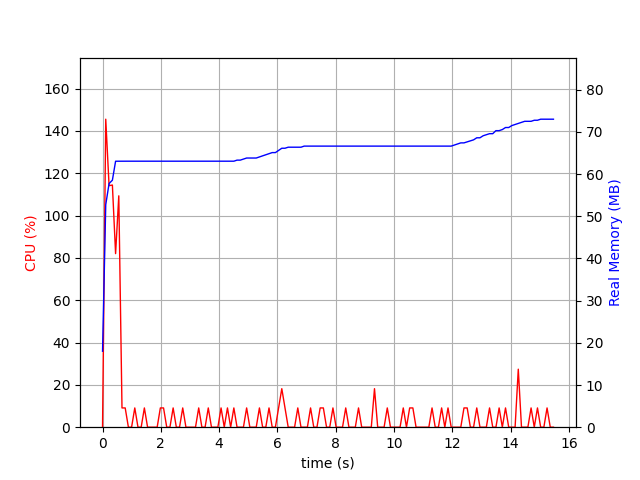
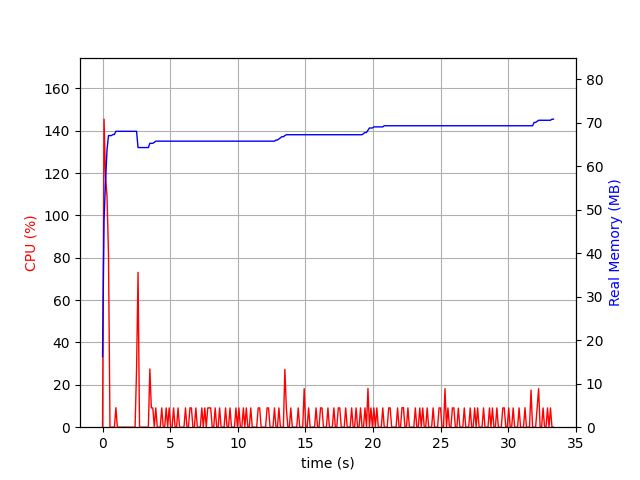
update readme

diff --git a/readme.md b/readme.md
@@ -95,7 +95,7 @@ optional arguments:
 
 ## Constant Request Rate Benchmarks
 
-For REQRATE = 100 request/s constant rate test with [`psrecord`](https://github.com/astrofrog/psrecord/)
+For REQRATE = 100 request/s constant rate test with [`psrecord`](https://github.com/astrofrog/psrecord/).   Where `--duration $((TIME+30))` is the `TIME` + 30s defined in `benchmark-rps.js`
 
 ```
 VU=20
@@ -103,7 +103,13 @@ REQRATE=100
 TIME=30
 DOMAIN=https://yourdomain.com/
 
-psrecord "taskset -c 0-3 k6 run -e RPS=${REQRATE} -e DURATION=${TIME}s -e USERS=${VU} -e URL=$DOMAIN --no-usage-report --out json=summary-raw-rps.gz benchmark-rps.js" --include-children --interval 0.1 --duration 30 --log psrecord.log --plot plot.png
+# gather nginx resource usage via psrecord in background
+# get Nginx MainPID value using Centmin Mod cminfo server-info tool
+spid=$(cminfo service-info nginx | jq -r '.MainPID')
+# set duration to 180 seconds as benchmark.js uses 4x 30s stages + 30s = 2 1/2 min run time
+psrecord $spid --include-children --interval 0.1 --duration $((TIME+30)) --log psrecord-rps-nginx.log --plot plot-rps-nginx.png &
+
+psrecord "taskset -c 0-3 k6 run -e RPS=${REQRATE} -e DURATION=${TIME}s -e USERS=${VU} -e URL=$DOMAIN --no-usage-report --out json=summary-raw-rps.gz benchmark-rps.js" --include-children --interval 0.1 --duration $((TIME+30)) --log psrecord.log --plot plot.png
 ```
 ```
 VU=20
@@ -111,9 +117,15 @@ REQRATE=100
 TIME=30
 DOMAIN=https://yourdomain.com/
 
-psrecord "taskset -c 0-3 k6 run -e RPS=${REQRATE} -e DURATION=${TIME}s -e USERS=${VU} -e URL=$DOMAIN --no-usage-report --out json=summary-raw-rps.gz benchmark-rps.js" --include-children --interval 0.1 --duration 30 --log psrecord.log --plot plot.png
+# gather nginx resource usage via psrecord in background
+# get Nginx MainPID value using Centmin Mod cminfo server-info tool
+spid=$(cminfo service-info nginx | jq -r '.MainPID')
+# set duration to 180 seconds as benchmark.js uses 4x 30s stages + 30s = 2 1/2 min run time
+psrecord $spid --include-children --interval 0.1 --duration $((TIME+30)) --log psrecord-rps-nginx.log --plot plot-rps-nginx.png &
 
-Starting up command 'taskset -c 0-3 k6 run -e RPS=100 -e DURATION=15s -e USERS=20 -e URL=https://domain1.com/ --no-usage-report --out json=summary-raw-rps.gz benchmark-rps.js' and attaching to process
+psrecord "taskset -c 0-3 k6 run -e RPS=${REQRATE} -e DURATION=${TIME}s -e USERS=${VU} -e URL=$DOMAIN --no-usage-report --out json=summary-raw-rps.gz benchmark-rps.js" --include-children --interval 0.1 --duration $((TIME+30)) --log psrecord.log --plot plot.png
+
+Starting up command 'taskset -c 0-3 k6 run -e RPS=100 -e DURATION=30s -e USERS=20 -e URL=https://domain1.com/ --no-usage-report --out json=summary-raw-rps.gz benchmark-rps.js' and attaching to process
 
           /\      |‾‾| /‾‾/   /‾‾/   
      /\  /  \     |  |/  /   /  /    
@@ -125,65 +137,76 @@ Starting up command 'taskset -c 0-3 k6 run -e RPS=100 -e DURATION=15s -e USERS=2
      script: benchmark-rps.js
      output: json (summary-raw-rps.gz)
 
-  scenarios: (100.00%) 1 scenario, 1000 max VUs, 45s max duration (incl. graceful stop):
-           * open_model: 100.00 iterations/s for 15s (maxVUs: 20-1000, gracefulStop: 30s)
+  scenarios: (100.00%) 1 scenario, 1000 max VUs, 1m0s max duration (incl. graceful stop):
+           * open_model: 100.00 iterations/s for 30s (maxVUs: 20-1000, gracefulStop: 30s)
 
 
-running (15.0s), 0000/0020 VUs, 1501 complete and 0 interrupted iterations
-open_model ✓ [======================================] 0000/0020 VUs  15s  100.00 iters/s
+running (0m30.0s), 0000/0020 VUs, 3000 complete and 0 interrupted iterations
+open_model ✓ [======================================] 0000/0020 VUs  30s  100.00 iters/s
      █ main index page
 
        ✓ is status 200
 
-     checks.........................: 100.00% ✓ 1501       ✗ 0   
-     data_received..................: 3.6 MB  239 kB/s
-     data_sent......................: 73 kB   4.8 kB/s
-     group_duration.................: avg=278.22µs min=225.94µs med=260.97µs max=4.7ms    p(95)=304.74µs p(99)=963.37µs p(99.99)=4.21ms   count=1501
-     http_req_blocked...............: avg=9.72µs   min=160ns    med=262ns    max=922.33µs p(95)=361ns    p(99)=649.83µs p(99.99)=919.25µs count=1501
-     http_req_connecting............: avg=700ns    min=0s       med=0s       max=99.76µs  p(95)=0s       p(99)=44.79µs  p(99.99)=96.78µs  count=1501
-     http_req_duration..............: avg=213.93µs min=181.89µs med=209.62µs max=588.97µs p(95)=238.92µs p(99)=327.53µs p(99.99)=586.16µs count=1501
-       { expected_response:true }...: avg=213.93µs min=181.89µs med=209.62µs max=588.97µs p(95)=238.92µs p(99)=327.53µs p(99.99)=586.16µs count=1501
-     ✓ { gzip:yes }.................: avg=213.93µs min=181.89µs med=209.62µs max=588.97µs p(95)=238.92µs p(99)=327.53µs p(99.99)=586.16µs count=1501
-     http_req_failed................: 0.00%   ✓ 0          ✗ 1501
-     http_req_receiving.............: avg=21.72µs  min=14.74µs  med=19.78µs  max=194.79µs p(95)=27.82µs  p(99)=93.34µs  p(99.99)=193.84µs count=1501
-     http_req_sending...............: avg=57.33µs  min=25.28µs  med=31.96µs  max=312.68µs p(95)=202.96µs p(99)=211.36µs p(99.99)=309.35µs count=1501
-     http_req_tls_handshaking.......: avg=7.8µs    min=0s       med=0s       max=744.19µs p(95)=0s       p(99)=547.02µs p(99.99)=740.18µs count=1501
-     http_req_waiting...............: avg=134.87µs min=0s       med=152.74µs max=520.46µs p(95)=174.36µs p(99)=230.68µs p(99.99)=510.61µs count=1501
-     http_reqs......................: 1501    100.053087/s
-     iteration_duration.............: avg=291.89µs min=236.67µs med=273.92µs max=4.72ms   p(95)=319.85µs p(99)=983.59µs p(99.99)=4.24ms   count=1501
-     iterations.....................: 1501    100.053087/s
-     vus............................: 20      min=20       max=20
-     vus_max........................: 20      min=20       max=20Process finished (15.58 seconds)
+     checks.........................: 100.00% ✓ 3000      ✗ 0   
+     data_received..................: 7.1 MB  238 kB/s
+     data_sent......................: 131 kB  4.4 kB/s
+     group_duration.................: avg=288.4µs  min=232.7µs  med=271.13µs max=6.36ms   p(95)=330.81µs p(99)=437.09µs p(99.99)=5.79ms   count=3000
+     http_req_blocked...............: avg=5.98µs   min=154ns    med=259ns    max=3.93ms   p(95)=360ns    p(99)=799ns    p(99.99)=3.04ms   count=3000
+     http_req_connecting............: avg=1.05µs   min=0s       med=0s       max=2.15ms   p(95)=0s       p(99)=0s       p(99.99)=1.53ms   count=3000
+     http_req_duration..............: avg=228.72µs min=186.45µs med=219.13µs max=6.29ms   p(95)=258.79µs p(99)=305.58µs p(99.99)=5.67ms   count=3000
+       { expected_response:true }...: avg=228.72µs min=186.45µs med=219.13µs max=6.29ms   p(95)=258.79µs p(99)=305.58µs p(99.99)=5.67ms   count=3000
+     ✓ { gzip:yes }.................: avg=228.72µs min=186.45µs med=219.13µs max=6.29ms   p(95)=258.79µs p(99)=305.58µs p(99.99)=5.67ms   count=3000
+     http_req_failed................: 0.00%   ✓ 0         ✗ 3000
+     http_req_receiving.............: avg=21.41µs  min=14.37µs  med=20.19µs  max=136.93µs p(95)=27.72µs  p(99)=36.52µs  p(99.99)=130.43µs count=3000
+     http_req_sending...............: avg=60.9µs   min=25.83µs  med=33.25µs  max=317.2µs  p(95)=208.82µs p(99)=226.07µs p(99.99)=311.65µs count=3000
+     http_req_tls_handshaking.......: avg=4.19µs   min=0s       med=0s       max=1.63ms   p(95)=0s       p(99)=0s       p(99.99)=1.37ms   count=3000
+     http_req_waiting...............: avg=146.39µs min=0s       med=162.22µs max=6.22ms   p(95)=184.61µs p(99)=229.52µs p(99.99)=5.59ms   count=3000
+     http_reqs......................: 3000    99.994163/s
+     iteration_duration.............: avg=302.56µs min=245.1µs  med=284.47µs max=6.38ms   p(95)=348.05µs p(99)=462.9µs  p(99.99)=5.82ms   count=3000
+     iterations.....................: 3000    99.994163/s
+     vus............................: 20      min=20      max=20
+     vus_max........................: 20      min=20      max=20Process finished (33.45 seconds)
 ```
 
 psrecord recorded cpu and memory usage on 4x core/8x thread Intel i7 4790K server.
 
+For k6 run itself
+
 ![benchmark-rps.js](/screenshots/rps/plot.png)
+
+For Nginx web server tested
+
+![nginx](/screenshots/rps/plot-rps-nginx.png)
 
 ## User Concurrency Benchmarks Without Random Sleep
 
-User 25, 50, 100, 0 concurrency 4 stage benchmarks without random sleep with [`psrecord`](https://github.com/astrofrog/psrecord/)
+User 25, 50, 100, 0 concurrency 4 stage benchmarks without random sleep with [`psrecord`](https://github.com/astrofrog/psrecord/). Where `--duration $((TIME*5+30))` is the time multiple by the 4+1 stage runs + 30s defined in `benchmark.js`
 
 ```
 TIME=30
 DOMAIN=https://yourdomain.com/
 
-# method 1 run psrecord in background
+# gather nginx resource usage via psrecord in background
 # get Nginx MainPID value using Centmin Mod cminfo server-info tool
 spid=$(cminfo service-info nginx | jq -r '.MainPID')
 # set duration to 180 seconds as benchmark.js uses 4x 30s stages + 30s = 2 1/2 min run time
-psrecord $spid --include-children --interval 0.1 --duration 180 --log psrecord-user-no-sleep.log --plot plot-user-no-sleep.png &
-taskset -c 0-3 k6 run -e STAGETIME=${TIME}s -e URL=$DOMAIN --no-usage-report --out json=summary-raw.gz benchmark.js
+psrecord $spid --include-children --interval 0.1 --duration $((TIME*5+30)) --log psrecord-user-no-sleep-nginx.log --plot plot-user-no-sleep-nginx.png &
 
-# method 2 initiated via psrecord
-psrecord "taskset -c 0-3 k6 run -e STAGETIME=${TIME}s -e URL=$DOMAIN --no-usage-report --out json=summary-raw.gz benchmark.js" --include-children --interval 0.1 --duration 180 --log psrecord-user-no-sleep.log --plot plot-user-no-sleep.png
+# run k6 initiated via psrecord
+psrecord "taskset -c 0-3 k6 run -e STAGETIME=${TIME}s -e URL=$DOMAIN --no-usage-report --out json=summary-raw.gz benchmark.js" --include-children --interval 0.1 --duration $((TIME*5+30)) --log psrecord-user-no-sleep.log --plot plot-user-no-sleep.png
 ```
 
 ```
 TIME=30
 DOMAIN=https://yourdomain.com/
 
-psrecord "taskset -c 0-3 k6 run -e STAGETIME=${TIME}s -e URL=$DOMAIN --no-usage-report --out json=summary-raw.gz benchmark.js" --include-children --interval 0.1 --duration 180 --log psrecord-user-no-sleep.log --plot plot-user-no-sleep.png
+# gather nginx resource usage via psrecord in background
+# get Nginx MainPID value using Centmin Mod cminfo server-info tool
+spid=$(cminfo service-info nginx | jq -r '.MainPID')
+# set duration to 180 seconds as benchmark.js uses 4x 30s stages + 30s = 2 1/2 min run time
+psrecord $spid --include-children --interval 0.1 --duration $((TIME*5+30)) --log psrecord-user-no-sleep-nginx.log --plot plot-user-no-sleep-nginx.png &
+
+psrecord "taskset -c 0-3 k6 run -e STAGETIME=${TIME}s -e URL=$DOMAIN --no-usage-report --out json=summary-raw.gz benchmark.js" --include-children --interval 0.1 --duration $((TIME*5+30)) --log psrecord-user-no-sleep.log --plot plot-user-no-sleep.png
 
 Starting up command 'taskset -c 0-3 k6 run -e STAGETIME=30s -e URL=https://domain1.com/ --no-usage-report --out json=summary-raw.gz benchmark.js' and attaching to process
 
@@ -197,35 +220,35 @@ Starting up command 'taskset -c 0-3 k6 run -e STAGETIME=30s -e URL=https://domai
      script: benchmark.js
      output: json (summary-raw.gz)
 
-  scenarios: (100.00%) 1 scenario, 100 max VUs, 2m30s max duration (incl. graceful stop):
-           * default: Up to 100 looping VUs for 2m0s over 4 stages (gracefulRampDown: 30s, gracefulStop: 30s)
+  scenarios: (100.00%) 1 scenario, 10 max VUs, 2m30s max duration (incl. graceful stop):
+           * default: Up to 10 looping VUs for 2m0s over 4 stages (gracefulRampDown: 30s, gracefulStop: 30s)
 
 
-running (2m00.0s), 000/100 VUs, 515498 complete and 0 interrupted iterations
-default ✓ [======================================] 000/100 VUs  2m0s
+running (2m00.0s), 00/10 VUs, 372061 complete and 0 interrupted iterations
+default ✓ [======================================] 00/10 VUs  2m0s
      █ main index page
 
        ✓ is status 200
 
-     checks.........................: 100.00% ✓ 515498      ✗ 0     
-     data_received..................: 1.2 GB  10 MB/s
-     data_sent......................: 20 MB   168 kB/s
-     group_duration.................: avg=9.28ms   min=206.71µs med=6.03ms  max=118.51ms p(95)=29.06ms  p(99)=45.52ms p(99.99)=89.95ms count=515498
-     http_req_blocked...............: avg=3.61µs   min=107ns    med=221ns   max=65.82ms  p(95)=326ns    p(99)=427ns   p(99.99)=13.44ms count=515498
-     http_req_connecting............: avg=1.59µs   min=0s       med=0s      max=38.03ms  p(95)=0s       p(99)=0s      p(99.99)=3.46ms  count=515498
-     http_req_duration..............: avg=9.15ms   min=162.86µs med=5.94ms  max=118.46ms p(95)=28.73ms  p(99)=44.83ms p(99.99)=88.63ms count=515498
-       { expected_response:true }...: avg=9.15ms   min=162.86µs med=5.94ms  max=118.46ms p(95)=28.73ms  p(99)=44.83ms p(99.99)=88.63ms count=515498
-     ✓ { gzip:yes }.................: avg=9.15ms   min=162.86µs med=5.94ms  max=118.46ms p(95)=28.73ms  p(99)=44.83ms p(99.99)=88.63ms count=515498
-     http_req_failed................: 0.00%   ✓ 0           ✗ 515498
-     http_req_receiving.............: avg=3.77ms   min=9µs      med=1.73ms  max=107.19ms p(95)=14.31ms  p(99)=31.21ms p(99.99)=67.59ms count=515498
-     http_req_sending...............: avg=126.79µs min=13.99µs  med=29.29µs max=73.17ms  p(95)=185.48µs p(99)=1.7ms   p(99.99)=39.06ms count=515498
-     http_req_tls_handshaking.......: avg=1.66µs   min=0s       med=0s      max=52.81ms  p(95)=0s       p(99)=0s      p(99.99)=4.81ms  count=515498
-     http_req_waiting...............: avg=5.25ms   min=0s       med=2.39ms  max=91.08ms  p(95)=19.37ms  p(99)=26.88ms p(99.99)=51.61ms count=515498
-     http_reqs......................: 515498  4295.760443/s
-     iteration_duration.............: avg=10.14ms  min=618.59µs med=6.8ms   max=119.03ms p(95)=30.72ms  p(99)=48.28ms p(99.99)=91.41ms count=515498
-     iterations.....................: 515498  4295.760443/s
-     vus............................: 1       min=1         max=99  
-     vus_max........................: 100     min=100       max=100 Process finished (121.29 seconds)
+     checks.........................: 100.00% ✓ 372061      ✗ 0     
+     data_received..................: 881 MB  7.3 MB/s
+     data_sent......................: 15 MB   121 kB/s
+     group_duration.................: avg=716.71µs min=202.28µs med=366.9µs  max=27.68ms  p(95)=1.98ms   p(99)=7.51ms   p(99.99)=18.26ms count=372061
+     http_req_blocked...............: avg=295ns    min=109ns    med=218ns    max=3.58ms   p(95)=296ns    p(99)=338ns    p(99.99)=9.46µs  count=372061
+     http_req_connecting............: avg=5ns      min=0s       med=0s       max=871.71µs p(95)=0s       p(99)=0s       p(99.99)=0s      count=372061
+     http_req_duration..............: avg=660.38µs min=159.34µs med=309.89µs max=36.12ms  p(95)=1.9ms    p(99)=7.39ms   p(99.99)=21.27ms count=372061
+       { expected_response:true }...: avg=660.38µs min=159.34µs med=309.89µs max=36.12ms  p(95)=1.9ms    p(99)=7.39ms   p(99.99)=21.27ms count=372061
+     ✓ { gzip:yes }.................: avg=660.38µs min=159.34µs med=309.89µs max=36.12ms  p(95)=1.9ms    p(99)=7.39ms   p(99.99)=21.27ms count=372061
+     http_req_failed................: 0.00%   ✓ 0           ✗ 372061
+     http_req_receiving.............: avg=129.3µs  min=8.84µs   med=19.65µs  max=25.19ms  p(95)=699.68µs p(99)=1.29ms   p(99.99)=12.77ms count=372061
+     http_req_sending...............: avg=49.92µs  min=16.27µs  med=28.76µs  max=22.97ms  p(95)=182.66µs p(99)=248.71µs p(99.99)=11.58ms count=372061
+     http_req_tls_handshaking.......: avg=45ns     min=0s       med=0s       max=3.41ms   p(95)=0s       p(99)=0s       p(99.99)=0s      count=372061
+     http_req_waiting...............: avg=481.15µs min=0s       med=241.92µs max=27.27ms  p(95)=1.09ms   p(99)=6.73ms   p(99.99)=15.53ms count=372061
+     http_reqs......................: 372061  3100.424592/s
+     iteration_duration.............: avg=1.28ms   min=614.18µs med=901.1µs  max=33.76ms  p(95)=2.83ms   p(99)=8.93ms   p(99.99)=22.37ms count=372061
+     iterations.....................: 372061  3100.424592/s
+     vus............................: 1       min=1         max=10  
+     vus_max........................: 10      min=10        max=10  Process finished (121.11 seconds)
 ```
 
 Using `jq` to filter `summary-raw.gz` summary log for the 4 stages via the tags for each stage.
@@ -269,11 +292,17 @@ pzcat summary-raw.gz | jq '. | select(.type=="Point" and .metric == "http_req_du
 
 psrecord recorded cpu and memory usage on 4x core/8x thread Intel i7 4790K server.
 
+For k6 run itself
+
 ![benchmark.js](/screenshots/users/plot-user-no-sleep.png)
+
+For Nginx web server tested
+
+![nginx](/screenshots/users/plot-user-no-sleep-nginx.png)
 
 ## User Concurrency Benchmarks With Random Sleep
 
-User 25, 50, 100, 0 concurrency 4 stage benchmarks with random sleep between 1 to 5 seconds with [`psrecord`](https://github.com/astrofrog/psrecord/) in `benchmark2.js` for `export default function ()`
+User 25, 50, 100, 0 concurrency 4 stage benchmarks with random sleep between 1 to 5 seconds with [`psrecord`](https://github.com/astrofrog/psrecord/) in `benchmark2.js` for `export default function ()`.  Where `--duration $((TIME*5+30))` is the time multiple by the 4+1 stage runs + 30s defined in `benchmark2.js`
 
 ```javascript
   const sleepMin = 1;
@@ -290,23 +319,22 @@ sleep(randomIntBetween(sleepMin, sleepMax));
 TIME=30
 DOMAIN=https://yourdomain.com/
 
-# method 1 run psrecord in background
+# gather nginx resource usage via psrecord in background
 # get Nginx MainPID value using Centmin Mod cminfo server-info tool
 spid=$(cminfo service-info nginx | jq -r '.MainPID')
 # set duration to 180 seconds as benchmark2.js uses 4x 30s stages + 30s = 2 1/2 min run time
-psrecord $spid --include-children --interval 0.1 --duration 180 --log psrecord-user.log --plot plot-user.png &
-taskset -c 0-3 k6 run -e STAGETIME=${TIME}s -e URL=$DOMAIN --no-usage-report --out json=summary-raw2.gz benchmark2.js
+psrecord $spid --include-children --interval 0.1 --duration $((TIME*5+30)) --log psrecord-user-nginx.log --plot plot-user-nginx.png &
 
-# method 2 initiated via psrecord
-psrecord "taskset -c 0-3 k6 run -e STAGETIME=${TIME}s -e URL=$DOMAIN --no-usage-report --out json=summary-raw2.gz benchmark2.js" --include-children --interval 0.1 --duration 180 --log psrecord-user.log --plot plot-user.png
+# run k6 initiated via psrecord
+psrecord "taskset -c 0-3 k6 run -e STAGETIME=${TIME}s -e URL=$DOMAIN --no-usage-report --out json=summary-raw2.gz benchmark2.js" --include-children --interval 0.1 --duration $((TIME*5+30)) --log psrecord-user.log --plot plot-user.png
 ```
 
 ```
 TIME=30
 DOMAIN=https://yourdomain.com/
 
-# method 2 initiated via psrecord
-psrecord "taskset -c 0-3 k6 run -e STAGETIME=${TIME}s -e URL=$DOMAIN --no-usage-report --out json=summary-raw2.gz benchmark2.js" --include-children --interval 0.1 --duration 180 --log psrecord-user.log --plot plot-user.png
+# run k6 initiated via psrecord
+psrecord "taskset -c 0-3 k6 run -e STAGETIME=${TIME}s -e URL=$DOMAIN --no-usage-report --out json=summary-raw2.gz benchmark2.js" --include-children --interval 0.1 --duration $((TIME*5+30)) --log psrecord-user-nginx.log --plot plot-user.png
 
 Starting up command 'taskset -c 0-3 k6 run -e STAGETIME=30s -e URL=https://domain1.com/ --no-usage-report --out json=summary-raw2.gz benchmark2.js' and attaching to process
 
@@ -324,40 +352,46 @@ Starting up command 'taskset -c 0-3 k6 run -e STAGETIME=30s -e URL=https://domai
            * default: Up to 100 looping VUs for 2m0s over 4 stages (gracefulRampDown: 30s, gracefulStop: 30s)
 
 
-running (2m03.8s), 000/100 VUs, 1769 complete and 0 interrupted iterations
+running (2m01.3s), 000/100 VUs, 1839 complete and 0 interrupted iterations
 default ✓ [======================================] 000/100 VUs  2m0s
      █ main index page
 
        ✓ is status 200
 
-     checks.........................: 100.00% ✓ 1769      ✗ 0    
-     data_received..................: 4.4 MB  35 kB/s
-     data_sent......................: 139 kB  1.1 kB/s
-     group_duration.................: avg=3.06s    min=1s       med=3s       max=5.01s    p(95)=5s       p(99)=5s       p(99.99)=5.01s    count=1769
-     http_req_blocked...............: avg=55.87µs  min=201ns    med=301ns    max=7.78ms   p(95)=807.56µs p(99)=882.42µs p(99.99)=7.59ms   count=1769
-     http_req_connecting............: avg=11.34µs  min=0s       med=0s       max=6.73ms   p(95)=66.46µs  p(99)=84.49µs  p(99.99)=6.6ms    count=1769
-     http_req_duration..............: avg=265.87µs min=190.27µs med=238.09µs max=9.56ms   p(95)=331.85µs p(99)=418.32µs p(99.99)=9.42ms   count=1769
-       { expected_response:true }...: avg=265.87µs min=190.27µs med=238.09µs max=9.56ms   p(95)=331.85µs p(99)=418.32µs p(99.99)=9.42ms   count=1769
-     ✓ { gzip:yes }.................: avg=265.87µs min=190.27µs med=238.09µs max=9.56ms   p(95)=331.85µs p(99)=418.32µs p(99.99)=9.42ms   count=1769
-     http_req_failed................: 0.00%   ✓ 0         ✗ 1769 
-     http_req_receiving.............: avg=26.87µs  min=11.35µs  med=21.96µs  max=271.43µs p(95)=85.08µs  p(99)=107.91µs p(99.99)=255.28µs count=1769
-     http_req_sending...............: avg=59.23µs  min=29.96µs  med=37.79µs  max=466.93µs p(95)=217.3µs  p(99)=268.22µs p(99.99)=456.12µs count=1769
-     http_req_tls_handshaking.......: avg=39.06µs  min=0s       med=0s       max=905.93µs p(95)=654.55µs p(99)=700.41µs p(99.99)=900.07µs count=1769
-     http_req_waiting...............: avg=179.76µs min=0s       med=172.86µs max=9.49ms   p(95)=228.64µs p(99)=311.14µs p(99.99)=9.34ms   count=1769
-     http_reqs......................: 1769    14.289059/s
-     iteration_duration.............: avg=3.06s    min=1s       med=3s       max=5.01s    p(95)=5s       p(99)=5s       p(99.99)=5.01s    count=1769
-     iterations.....................: 1769    14.289059/s
-     vus............................: 1       min=1       max=100
-     vus_max........................: 100     min=100     max=100Process finished (124.47 seconds)
+     checks.........................: 100.00% ✓ 1839     ✗ 0    
+     data_received..................: 4.5 MB  37 kB/s
+     data_sent......................: 142 kB  1.2 kB/s
+     group_duration.................: avg=2.94s    min=1s       med=3s       max=5.01s    p(95)=5s       p(99)=5s       p(99.99)=5.01s    count=1839
+     http_req_blocked...............: avg=62.14µs  min=199ns    med=312ns    max=10.03ms  p(95)=822.43µs p(99)=1.07ms   p(99.99)=9.88ms   count=1839
+     http_req_connecting............: avg=16.21µs  min=0s       med=0s       max=8.95ms   p(95)=70.09µs  p(99)=93.41µs  p(99.99)=8.83ms   count=1839
+     http_req_duration..............: avg=269.03µs min=188.43µs med=245.08µs max=11.23ms  p(95)=352.24µs p(99)=479.78µs p(99.99)=9.31ms   count=1839
+       { expected_response:true }...: avg=269.03µs min=188.43µs med=245.08µs max=11.23ms  p(95)=352.24µs p(99)=479.78µs p(99.99)=9.31ms   count=1839
+     ✓ { gzip:yes }.................: avg=269.03µs min=188.43µs med=245.08µs max=11.23ms  p(95)=352.24µs p(99)=479.78µs p(99.99)=9.31ms   count=1839
+     http_req_failed................: 0.00%   ✓ 0        ✗ 1839 
+     http_req_receiving.............: avg=27.11µs  min=11.11µs  med=22.3µs   max=178.46µs p(95)=39.61µs  p(99)=115.98µs p(99.99)=177.74µs count=1839
+     http_req_sending...............: avg=68.49µs  min=29.51µs  med=40.3µs   max=399.02µs p(95)=237.77µs p(99)=303.61µs p(99.99)=398.04µs count=1839
+     http_req_tls_handshaking.......: avg=40.37µs  min=0s       med=0s       max=1.22ms   p(95)=664.3µs  p(99)=843.76µs p(99.99)=1.19ms   count=1839
+     http_req_waiting...............: avg=173.42µs min=0s       med=175.37µs max=11.16ms  p(95)=239.56µs p(99)=342.52µs p(99.99)=9.24ms   count=1839
+     http_reqs......................: 1839    15.15872/s
+     iteration_duration.............: avg=2.94s    min=1s       med=3s       max=5.01s    p(95)=5s       p(99)=5s       p(99.99)=5.01s    count=1839
+     iterations.....................: 1839    15.15872/s
+     vus............................: 3       min=1      max=100
+     vus_max........................: 100     min=100    max=100Process finished (121.99 seconds)
 ```
 
 psrecord recorded cpu and memory usage on 4x core/8x thread Intel i7 4790K server.
 
+For k6 run itself
+
 ![benchmark2.js](/screenshots/users/plot-user.png)
+
+For Nginx web server tested
+
+![nginx](/screenshots/users/plot-user-nginx.png)
 
 # InfluxDB + Grafana
 
-Send results to InfluxDB database using `--out influxdb=http://localhost:8186/k6` where `--duration $((TIME*5))` is the time multiple by the 4+1 stage runs + 30s defined in `benchmark.js`.
+Send results to InfluxDB database using `--out influxdb=http://localhost:8186/k6` where `--duration $((TIME*5+30))` is the time multiple by the 4+1 stage runs + 30s defined in `benchmark.js`.
 
 ```
 TIME=60
@@ -365,10 +399,30 @@ DOMAIN=https://yourdomain.com/
 export K6_INFLUXDB_USERNAME=
 export K6_INFLUXDB_PASSWORD=
 
+# gather nginx resource usage via psrecord in background
+# get Nginx MainPID value using Centmin Mod cminfo server-info tool
+spid=$(cminfo service-info nginx | jq -r '.MainPID')
+# set duration to 180 seconds as benchmark2.js uses 4x 30s stages + 30s = 2 1/2 min run time
+psrecord $spid --include-children --interval 0.1 --duration $((TIME*5+30)) --log psrecord-user-nginx.log --plot plot-user-nginx.png &
+
+# run k6 initiated via psrecord
 psrecord "taskset -c 0-3 k6 run -e STAGETIME=${TIME}s -e URL=$DOMAIN --no-usage-report --out influxdb=http://localhost:8186/k6 benchmark.js" --include-children --interval 0.1 --duration $((TIME*5+30)) --log psrecord-user-no-sleep.log --plot plot-user-no-sleep.png
 ```
 ```
+IME=60
+DOMAIN=https://yourdomain.com/
+export K6_INFLUXDB_USERNAME=
+export K6_INFLUXDB_PASSWORD=
+
+# gather nginx resource usage via psrecord in background
+# get Nginx MainPID value using Centmin Mod cminfo server-info tool
+spid=$(cminfo service-info nginx | jq -r '.MainPID')
+# set duration to 180 seconds as benchmark2.js uses 4x 30s stages + 30s = 2 1/2 min run time
+psrecord $spid --include-children --interval 0.1 --duration $((TIME*5+30)) --log psrecord-user-nginx.log --plot plot-user-nginx.png &
+
+# run k6 initiated via psrecord
 psrecord "taskset -c 0-3 k6 run -e STAGETIME=${TIME}s -e URL=$DOMAIN --no-usage-report --out influxdb=http://localhost:8186/k6 benchmark.js" --include-children --interval 0.1 --duration $((TIME*5+30)) --log psrecord-user-no-sleep.log --plot plot-user-no-sleep.png
+
 Starting up command 'taskset -c 0-3 k6 run -e STAGETIME=60s -e URL=https://domain1.com/ --no-usage-report --out influxdb=http://localhost:8186/k6 benchmark.js' and attaching to process
 
           /\      |‾‾| /‾‾/   /‾‾/   
